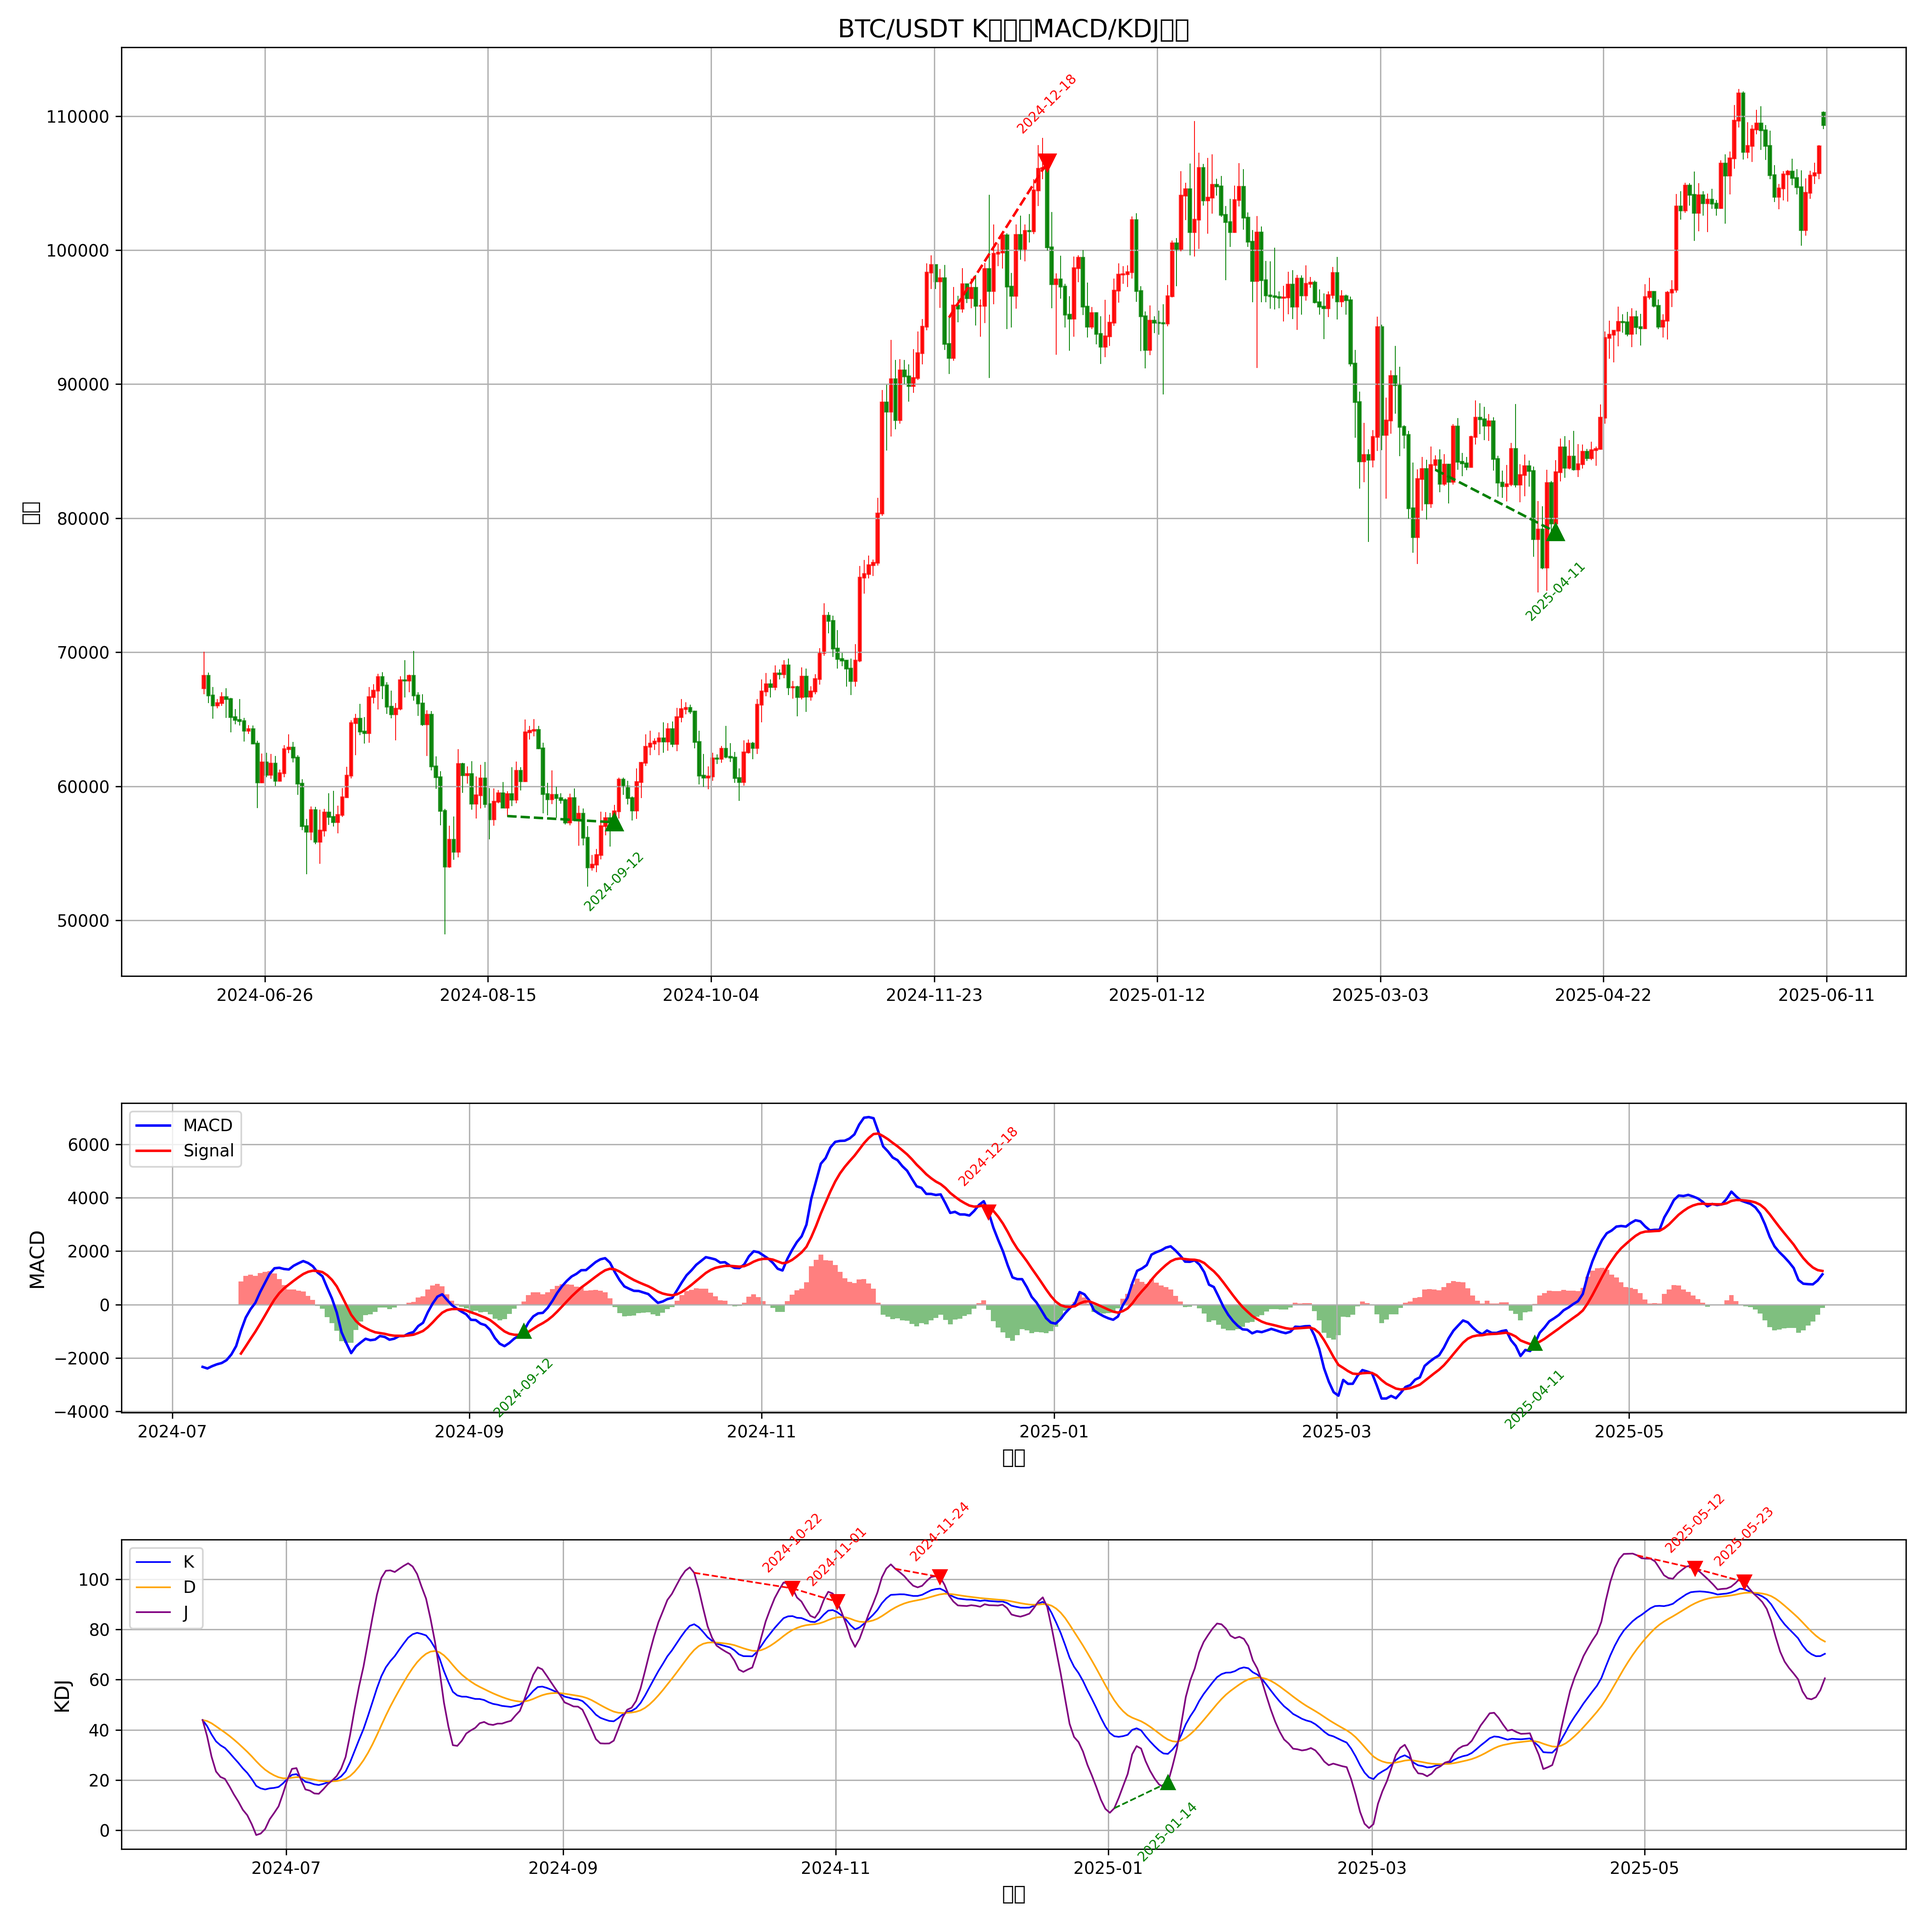
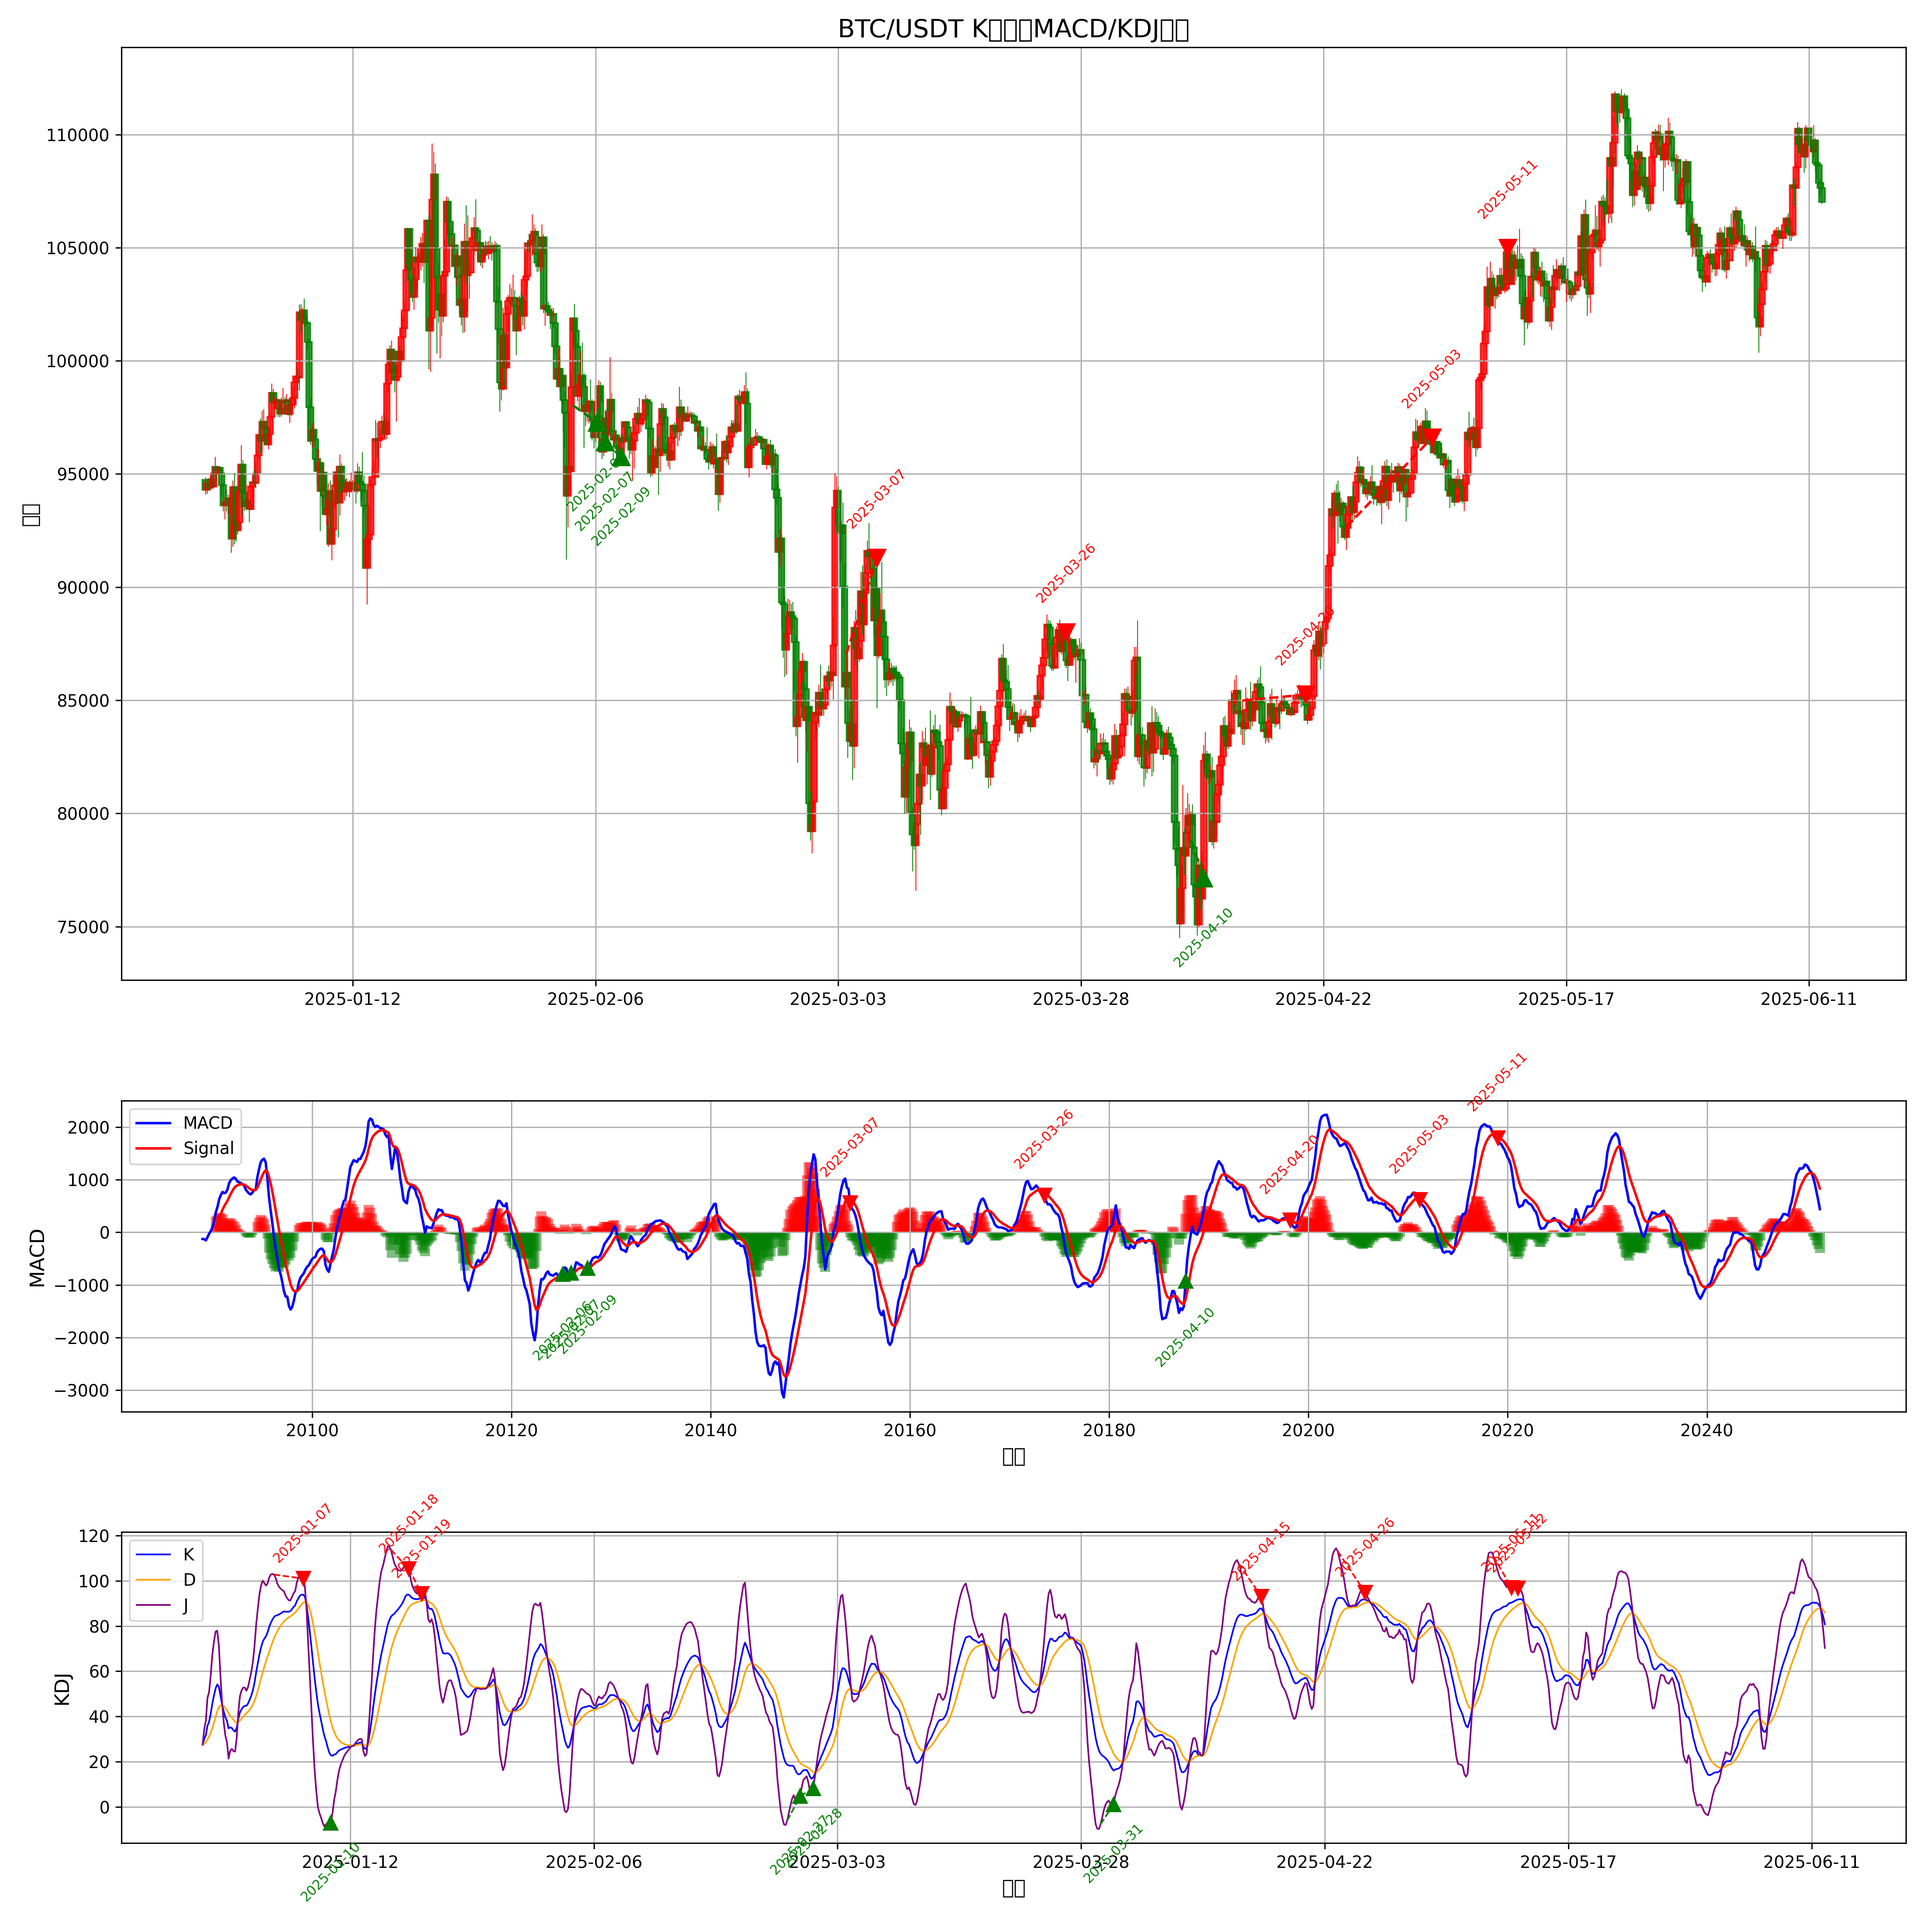
444

diff --git a/btc_macd_divergence.py b/btc_macd_divergence.py
@@ -6,6 +6,10 @@ from matplotlib.patches import Rectangle
 from mplfinance.original_flavor import candlestick_ohlc
 import ta
 import datetime
+import sys
+sys.path.append('src/data_collection')  # 添加数据接口路径
+from downData import get_binance_klines
+import pytz
 
 # 读取CSV数据
 def load_data(file_path, years=1):
@@ -28,6 +32,40 @@ def load_data(file_path, years=1):
     # 设置索引
     df.set_index('open_time', inplace=True)
     
+    return df
+
+# 读取CSV数据
+def load_data_from_api(symbol='BTCUSDT', interval='1d', years=1):
+    """
+    通过币安接口获取K线数据，并转换为与原load_data一致的DataFrame格式。
+    :param symbol: 币安交易对
+    :param interval: K线周期
+    :param years: 只保留最近N年的数据
+    :return: DataFrame
+    """
+    df = get_binance_klines(symbol=symbol, interval=interval, limit=1000)
+    if df is None or len(df) == 0:
+        raise ValueError('接口未获取到数据')
+    # 只保留最近N年
+    if years > 0:
+        cutoff_date = pd.Timestamp.now(tz='Asia/Shanghai') - pd.Timedelta(days=365 * years)
+        df = df[df['开盘时间'] >= cutoff_date]
+    # 重命名为英文列名，适配后续处理
+    df = df.rename(columns={
+        '开盘时间': 'open_time',
+        '开盘价': 'open',
+        '最高价': 'high',
+        '最低价': 'low',
+        '收盘价': 'close',
+        '成交量': 'volume',
+        '收盘时间': 'close_time',
+        '成交额': 'quote_volume',
+        '成交笔数': 'count',
+        '主动买入成交量': 'taker_buy_volume',
+        '主动买入成交额': 'taker_buy_quote_volume',
+        '忽略': 'ignore',
+    })
+    df.set_index('open_time', inplace=True)
     return df
 
 # 计算MACD指标
@@ -152,9 +190,9 @@ def calculate_kdj_indicators_for_df(df, n=34, m1=3, m2=8, m3=1, m4=6, m5=1, j_pe
 # KDJ背离专用标注函数，支持时间戳和数值索引两种格式
 def plot_kdj_divergence_fixed(ax3, ohlc, df, kdj_top_divergence_info, kdj_bottom_divergence_info):
     # KDJ线
-    ax3.plot(ohlc['open_time'], df['kdj_k'], label='K', color='blue', linewidth=1)
-    ax3.plot(ohlc['open_time'], df['kdj_d'], label='D', color='orange', linewidth=1)
-    ax3.plot(ohlc['open_time'], df['kdj_j'], label='J', color='purple', linewidth=1)
+    ax3.plot(ohlc['date_num'], df['kdj_k'], label='K', color='blue', linewidth=1)
+    ax3.plot(ohlc['date_num'], df['kdj_d'], label='D', color='orange', linewidth=1)
+    ax3.plot(ohlc['date_num'], df['kdj_j'], label='J', color='purple', linewidth=1)
     # 标注KDJ顶背离
     if kdj_top_divergence_info is not None:
         for curr_idx, prev_idx in kdj_top_divergence_info:
@@ -162,14 +200,14 @@ def plot_kdj_divergence_fixed(ax3, ohlc, df, kdj_top_divergence_info, kdj_bottom
                 curr_idx = ohlc[ohlc['open_time'] == curr_idx].index[0]
             if isinstance(prev_idx, (np.datetime64, pd.Timestamp)):
                 prev_idx = ohlc[ohlc['open_time'] == prev_idx].index[0]
-            point_date = ohlc['open_time'].iloc[curr_idx]
+            point_date = ohlc['date_num'].iloc[curr_idx]
             j_value = df['kdj_j'].iloc[curr_idx]
             ax3.plot(point_date, j_value, 'rv', markersize=8)
-            prev_date = ohlc['open_time'].iloc[prev_idx]
+            prev_date = ohlc['date_num'].iloc[prev_idx]
             prev_j = df['kdj_j'].iloc[prev_idx]
             ax3.plot([prev_date, point_date], [prev_j, j_value], 'r--', linewidth=1)
             # 日期标注（上方）
-            date_str = point_date.strftime('%Y-%m-%d')
+            date_str = ohlc['open_time'].iloc[curr_idx].strftime('%Y-%m-%d')
             ax3.annotate(date_str, (point_date, j_value), xytext=(0, 8), textcoords='offset points', ha='center', va='bottom', fontsize=8, color='red', rotation=45)
     # 标注KDJ底背离
     if kdj_bottom_divergence_info is not None:
@@ -178,14 +216,14 @@ def plot_kdj_divergence_fixed(ax3, ohlc, df, kdj_top_divergence_info, kdj_bottom
                 curr_idx = ohlc[ohlc['open_time'] == curr_idx].index[0]
             if isinstance(prev_idx, (np.datetime64, pd.Timestamp)):
                 prev_idx = ohlc[ohlc['open_time'] == prev_idx].index[0]
-            point_date = ohlc['open_time'].iloc[curr_idx]
+            point_date = ohlc['date_num'].iloc[curr_idx]
             j_value = df['kdj_j'].iloc[curr_idx]
             ax3.plot(point_date, j_value, 'g^', markersize=8)
-            prev_date = ohlc['open_time'].iloc[prev_idx]
+            prev_date = ohlc['date_num'].iloc[prev_idx]
             prev_j = df['kdj_j'].iloc[prev_idx]
             ax3.plot([prev_date, point_date], [prev_j, j_value], 'g--', linewidth=1)
             # 日期标注（下方）
-            date_str = point_date.strftime('%Y-%m-%d')
+            date_str = ohlc['open_time'].iloc[curr_idx].strftime('%Y-%m-%d')
             ax3.annotate(date_str, (point_date, j_value), xytext=(0, -10), textcoords='offset points', ha='center', va='top', fontsize=8, color='green', rotation=45)
     ax3.set_ylabel('KDJ', fontsize=12)
     ax3.set_xlabel('日期', fontsize=12)
@@ -230,26 +268,26 @@ def plot_chart_with_divergence(df, top_divergence_info, bottom_divergence_info, 
     ax1.set_ylabel('价格', fontsize=12)
     ax1.grid(True)
     # MACD
-    ax2.plot(ohlc['open_time'], df['macd'], label='MACD', color='blue', linewidth=1.5)
-    ax2.plot(ohlc['open_time'], df['signal'], label='Signal', color='red', linewidth=1.5)
+    ax2.plot(ohlc['date_num'], df['macd'], label='MACD', color='blue', linewidth=1.5)
+    ax2.plot(ohlc['date_num'], df['signal'], label='Signal', color='red', linewidth=1.5)
     pos_hist = ohlc.copy()
     pos_hist['hist'] = df['hist'].values
     pos_hist = pos_hist[pos_hist['hist'] > 0]
     neg_hist = ohlc.copy()
     neg_hist['hist'] = df['hist'].values
     neg_hist = neg_hist[neg_hist['hist'] <= 0]
-    ax2.bar(pos_hist['open_time'], pos_hist['hist'], color='red', alpha=0.5, width=1)
-    ax2.bar(neg_hist['open_time'], neg_hist['hist'], color='green', alpha=0.5, width=1)
+    ax2.bar(pos_hist['date_num'], pos_hist['hist'], color='red', alpha=0.5, width=1)
+    ax2.bar(neg_hist['date_num'], neg_hist['hist'], color='green', alpha=0.5, width=1)
     y_min_macd, y_max_macd = ax2.get_ylim()
     y_text_offset_macd = (y_max_macd - y_min_macd) * 0.05
     for idx, _ in top_divergence_info:
-        point_date = ohlc['open_time'].iloc[idx]
+        point_date = ohlc['date_num'].iloc[idx]
         macd_value = df['macd'].iloc[idx]
         ax2.plot(point_date, macd_value, 'rv', markersize=8)
         date_str = ohlc['open_time'].iloc[idx].strftime('%Y-%m-%d')
         ax2.annotate(date_str, (point_date, macd_value + y_text_offset_macd), xytext=(0, 5), textcoords='offset points', ha='center', va='bottom', fontsize=8, color='red', rotation=45)
     for idx, _ in bottom_divergence_info:
-        point_date = ohlc['open_time'].iloc[idx]
+        point_date = ohlc['date_num'].iloc[idx]
         macd_value = df['macd'].iloc[idx]
         ax2.plot(point_date, macd_value, 'g^', markersize=8)
         date_str = ohlc['open_time'].iloc[idx].strftime('%Y-%m-%d')
@@ -260,14 +298,17 @@ def plot_chart_with_divergence(df, top_divergence_info, bottom_divergence_info, 
     ax2.legend(loc='upper left')
     # KDJ
     plot_kdj_divergence_fixed(ax3, ohlc, df, kdj_top_divergence_info, kdj_bottom_divergence_info)
+    # 统一x轴格式
+    ax3.xaxis.set_major_formatter(date_format)
     plt.tight_layout()
     plt.savefig('btc_macd_kdj_divergence.png', dpi=300)
     plt.show()
 
 if __name__ == "__main__":
     window_size = 20
-    file_path = 'crypto_data/BTC/1d.csv'
-    df = load_data(file_path, years=1)
+    # file_path = 'crypto_data/BTC/1d.csv'
+    # df = load_data(file_path, years=1)
+    df = load_data_from_api(symbol='BTCUSDT', interval='1d', years=1)
     df = calculate_macd(df)
     # 用KDJ交叉极值法检测背离
     df, kdj_top_divergence_info, kdj_bottom_divergence_info = calculate_kdj_indicators_for_df(df)
